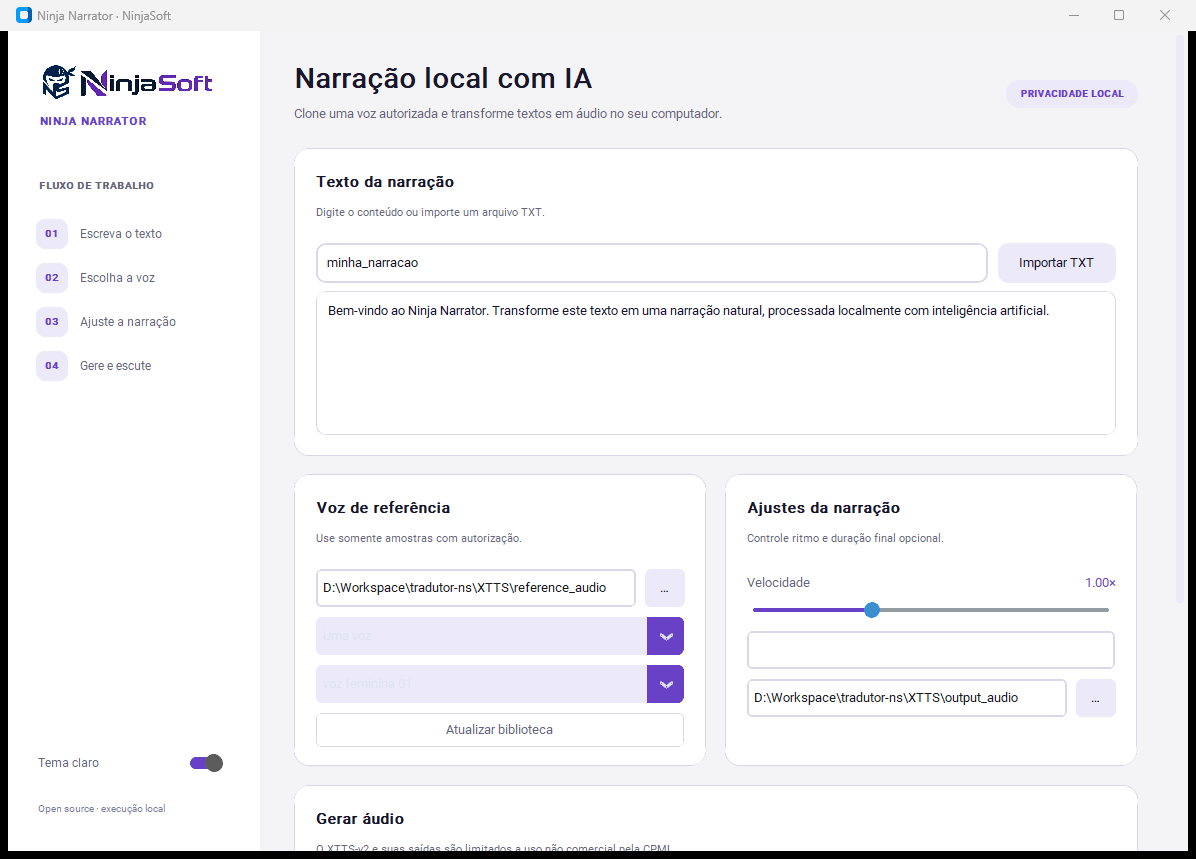
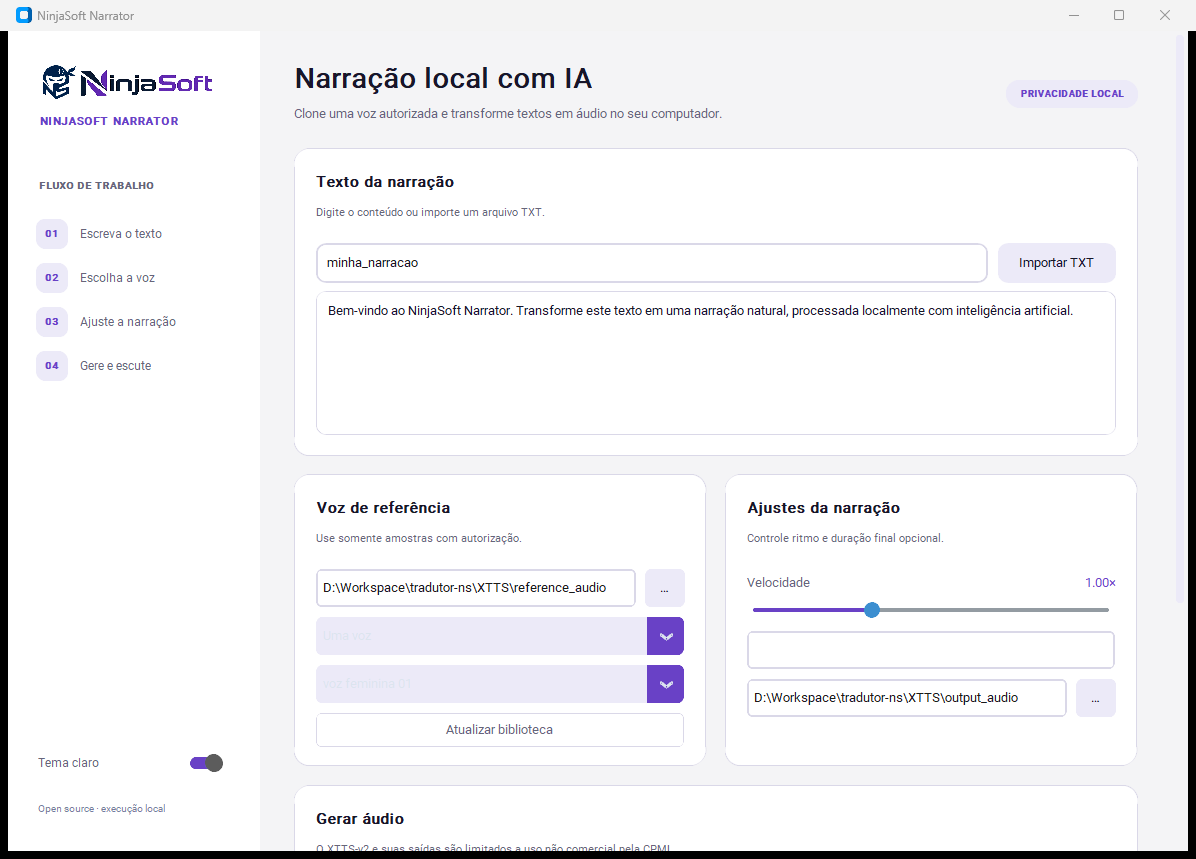
Adopt NinjaSoft Narrator product name

Changed region(s): [[0.3712, 0.3329, 0.8972, 0.3935], [0.0619, 0.1211, 0.1547, 0.1513], [0.0619, 0.0, 0.1237, 0.0303]]

diff --git a/ninja_narrator/gui_app.py b/ninja_narrator/gui_app.py
@@ -1,4 +1,4 @@
-"""Interface desktop do Ninja Narrator com identidade visual da NinjaSoft."""
+"""Interface desktop do NinjaSoft Narrator."""
 
 from __future__ import annotations
 
@@ -61,7 +61,7 @@ class NarratorApp(ctk.CTk):
         self.last_output: Path | None = None
         self.voice_tokens: dict[str, str] = {}
 
-        self.title("Ninja Narrator · NinjaSoft")
+        self.title("NinjaSoft Narrator")
         self.geometry("1180x820")
         self.minsize(1020, 720)
         self.grid_columnconfigure(1, weight=1)
@@ -123,7 +123,7 @@ class NarratorApp(ctk.CTk):
 
         ctk.CTkLabel(
             sidebar,
-            text="NINJA NARRATOR",
+            text="NINJASOFT NARRATOR",
             font=ctk.CTkFont(size=11, weight="bold"),
             text_color=COLORS["accent"],
         ).grid(row=1, column=0, padx=31, pady=(0, 36), sticky="w")
@@ -306,7 +306,7 @@ class NarratorApp(ctk.CTk):
         self.text_box.grid(row=3, column=0, padx=22, pady=(0, 20), sticky="ew")
         self.text_box.insert(
             "1.0",
-            "Bem-vindo ao Ninja Narrator. Transforme este texto em uma narração natural, "
+            "Bem-vindo ao NinjaSoft Narrator. Transforme este texto em uma narração natural, "
             "processada localmente com inteligência artificial.",
         )
 

diff --git a/ninja_narrator/__init__.py b/ninja_narrator/__init__.py
@@ -1,4 +1,4 @@
-"""Núcleo do Ninja Narrator, narrador local e open source da NinjaSoft."""
+"""Núcleo do NinjaSoft Narrator, narrador local e open source da NinjaSoft."""
 
 from .config import NarratorConfig, load_config
 from .domain import NarrationRequest, NarrationResult, ReferenceMode, TextEntry

diff --git a/ninja_narrator/backends/__init__.py b/ninja_narrator/backends/__init__.py
@@ -1,4 +1,4 @@
-"""Backends de síntese disponíveis para o Ninja Narrator."""
+"""Backends de síntese disponíveis para o NinjaSoft Narrator."""
 
 from .base import SpeechBackend
 from .xtts import XttsBackend

diff --git a/ninja_narrator/cli.py b/ninja_narrator/cli.py
@@ -1,4 +1,4 @@
-"""Interface de linha de comando do Ninja Narrator."""
+"""Interface de linha de comando do NinjaSoft Narrator."""
 
 from __future__ import annotations
 

diff --git a/ninja_narrator/config.py b/ninja_narrator/config.py
@@ -1,4 +1,4 @@
-"""Carregamento das configurações locais do Ninja Narrator."""
+"""Carregamento das configurações locais do NinjaSoft Narrator."""
 
 from __future__ import annotations
 

diff --git a/README.md b/README.md
@@ -1,6 +1,6 @@
 <div align="center">
   <img src="ninja_narrator/assets/ninjasoft-logo.png" alt="NinjaSoft" width="240">
-  <h1>Ninja Narrator</h1>
+  <h1>NinjaSoft Narrator</h1>
   <p>Narração local com clonagem de voz por IA, interface desktop e automação por CLI.</p>
 
   [![Quality](https://github.com/ninjasoft-dev/ninja-narrador/actions/workflows/quality.yml/badge.svg)](https://github.com/ninjasoft-dev/ninja-narrador/actions/workflows/quality.yml)
@@ -9,9 +9,9 @@
   [![Model: CPML](https://img.shields.io/badge/XTTS--v2-uso%20não%20comercial-9D72EF.svg)](THIRD_PARTY_NOTICES.md)
 </div>
 
-![Interface do Ninja Narrator](docs/assets/ninja-narrator-escuro.png)
+![Interface do NinjaSoft Narrator](docs/assets/ninja-narrator-escuro.png)
 
-O Ninja Narrator transforma textos em arquivos WAV usando amostras de uma voz
+O NinjaSoft Narrator transforma textos em arquivos WAV usando amostras de uma voz
 autorizada. A síntese roda no próprio computador com o XTTS-v2; textos e vozes
 não são enviados a uma API externa. O backend usa o fork mantido `coqui-tts`,
 preservando a API do XTTS-v2 sem depender do pacote original descontinuado.
@@ -131,7 +131,7 @@ A estrutura interna e os pontos de extensão estão em
 
 ## Licenças e uso responsável
 
-O **código do Ninja Narrator** é open source sob a [licença MIT](LICENSE). Isso
+O **código do NinjaSoft Narrator** é open source sob a [licença MIT](LICENSE). Isso
 permite estudar, modificar e trocar o backend do projeto.
 
 O **XTTS-v2 não usa a licença MIT**. Seus pesos e os resultados gerados por eles

diff --git a/CONTRIBUTING.md b/CONTRIBUTING.md
@@ -1,6 +1,6 @@
 # Como contribuir
 
-Obrigado por ajudar o Ninja Narrator. Correções, documentação, novos testes e
+Obrigado por ajudar o NinjaSoft Narrator. Correções, documentação, novos testes e
 backends de síntese são bem-vindos.
 
 ## Preparação

diff --git a/THIRD_PARTY_NOTICES.md b/THIRD_PARTY_NOTICES.md
@@ -1,6 +1,6 @@
 # Componentes de terceiros
 
-O código original do Ninja Narrator é distribuído sob a licença MIT. Modelos,
+O código original do NinjaSoft Narrator é distribuído sob a licença MIT. Modelos,
 bibliotecas e pesos baixados pela aplicação mantêm suas próprias licenças.
 
 ## Coqui TTS e XTTS-v2

diff --git a/docs/architecture.md b/docs/architecture.md
@@ -1,6 +1,6 @@
 # Arquitetura
 
-O Ninja Narrator separa interface, regras e mecanismo de síntese para evitar que
+O NinjaSoft Narrator separa interface, regras e mecanismo de síntese para evitar que
 decisões do XTTS-v2 se espalhem pelo projeto.
 
 ```text